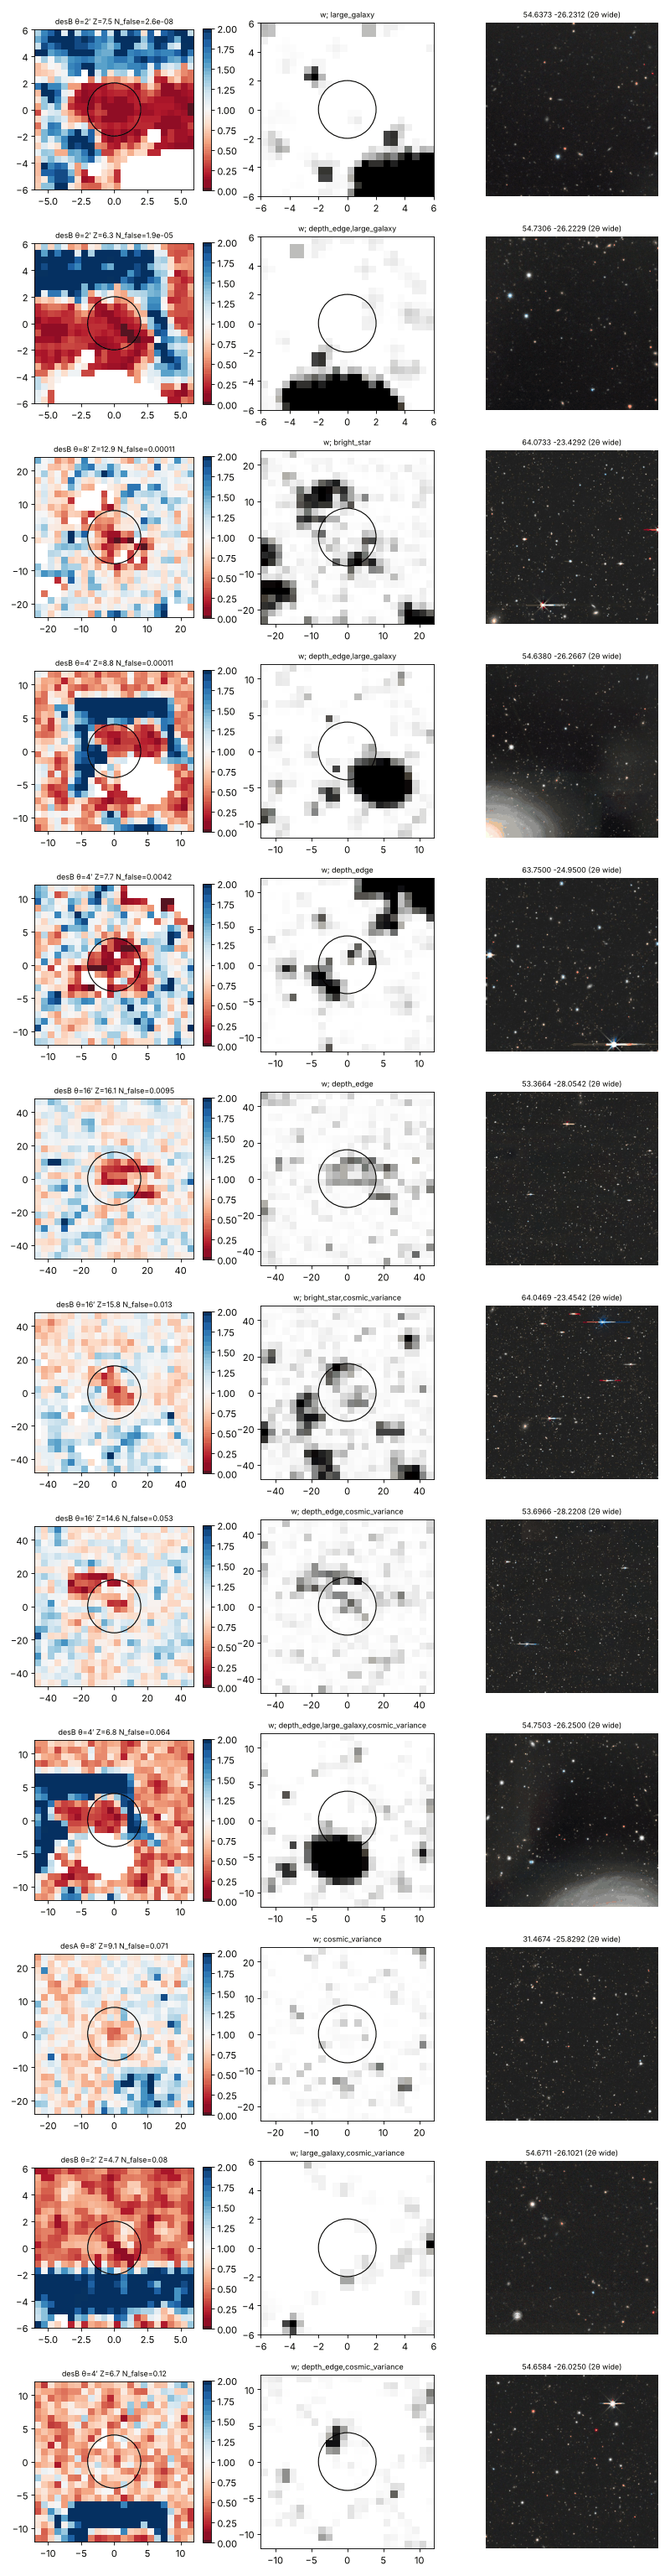
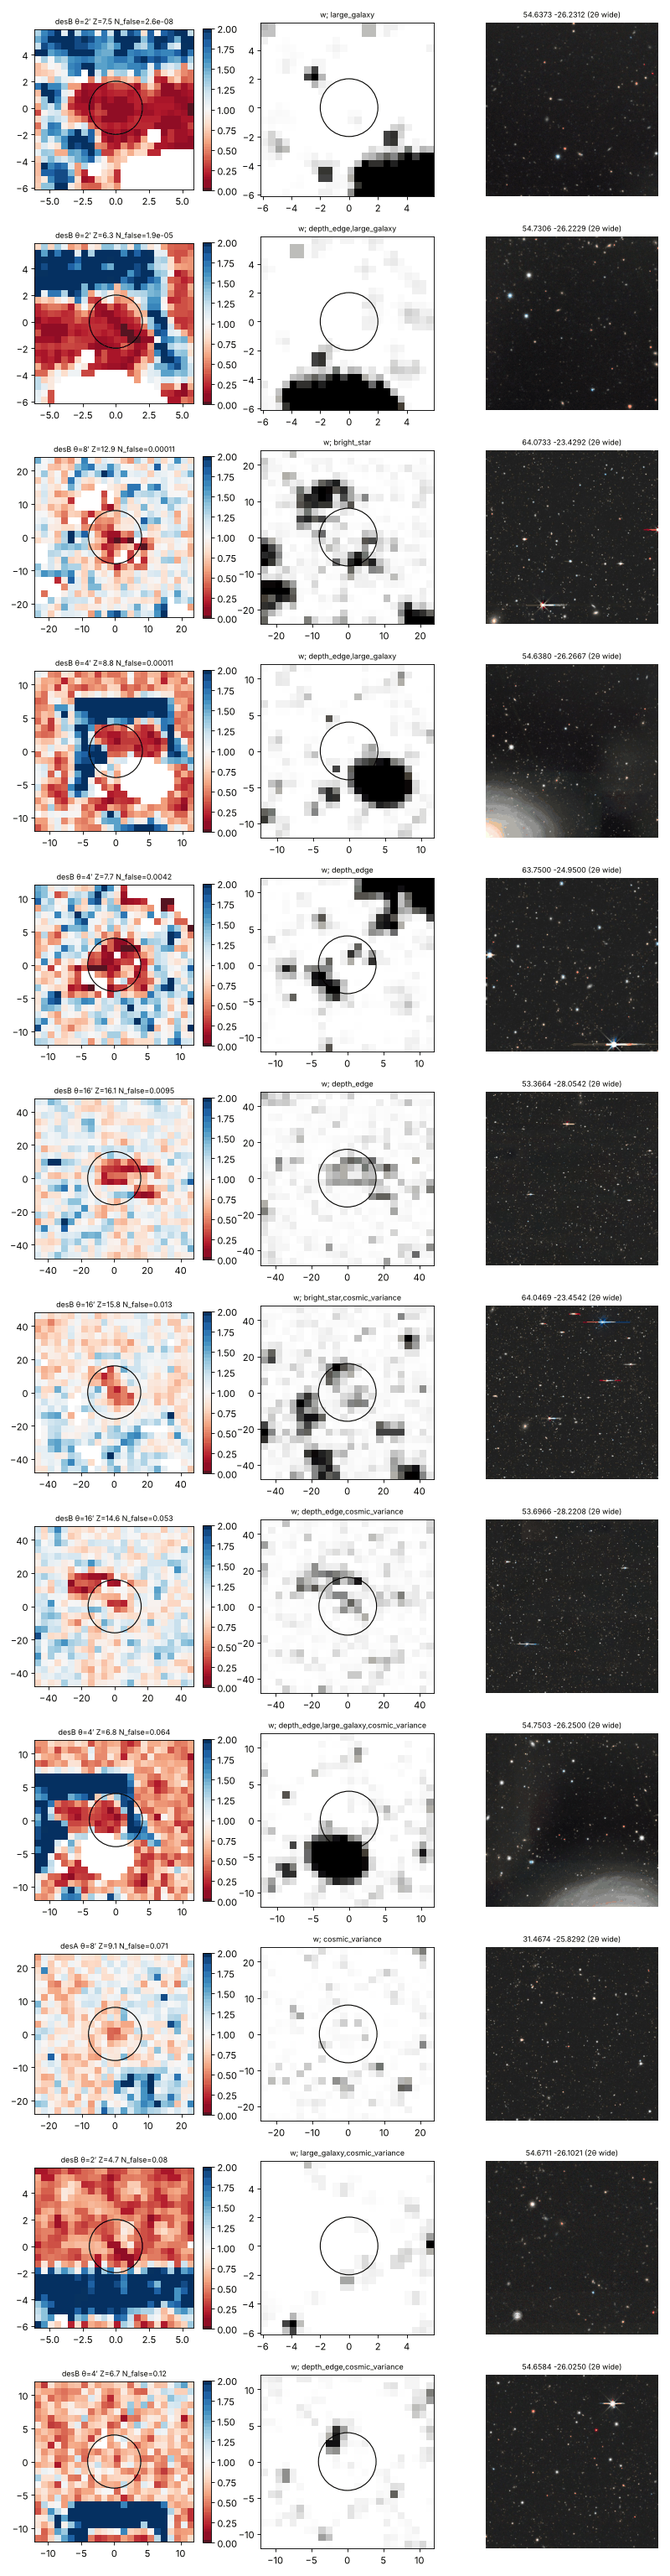
W5 second review: manifest records each chunk's stored query, retrieval time and release; cache checks all three queries and the manifest sha256; count_map data kind for W5; contact-sheet cells on true edges; round-trip test
Claude-Session: https://claude.ai/code/session_01F4SgDLLX7dpbxi9Kj6gEmC

diff --git a/src/jwst_anomaly/countmap.py b/src/jwst_anomaly/countmap.py
@@ -186,11 +186,22 @@ class LegacySurveysCountMap:
         q = chunk_queries(box, self.mag_lim)
         t = merge_chunk(run(q["gal"]), run(q["all"]), run(q["bad"]))
         t.meta["query_gal"] = q["gal"]
+        t.meta["query_all"] = q["all"]
+        t.meta["query_bad"] = q["bad"]
         path.parent.mkdir(parents=True, exist_ok=True)
         tmp = path.with_suffix(f".{os.getpid()}.{threading.get_ident()}.tmp.fits")
         t.write(tmp, overwrite=True)
         tmp.replace(path)
         return path
+
+    def pinned_sha256(self) -> dict[str, str]:
+        """sha256 per chunk file name from data/manifests/w5_dr10_counts.ecsv (empty if absent)."""
+        path = paths.repo_root() / "data" / "manifests" / "w5_dr10_counts.ecsv"
+        if not path.exists():
+            return {}
+        t = Table.read(path, format="ascii.ecsv")
+        name = self.region.name
+        return {str(r["file"]): str(r["sha256"]) for r in t if str(r["region"]) == name}
 
     def missing_chunks(self) -> list:
         return [b for b in self.region.chunks() if not self.chunk_path(b).exists()]
@@ -200,13 +211,23 @@ class LegacySurveysCountMap:
         missing = self.missing_chunks()
         if missing:
             raise FileNotFoundError(f"{len(missing)} chunks not fetched (run fetch first)")
+        pinned = self.pinned_sha256() if self.mag_lim == 23.5 else {}
         parts = []
         for b in self.region.chunks():
+            path = self.chunk_path(b)
+            if path.name in pinned and sha256_file(path) != pinned[path.name]:
+                raise ValueError(f"{path} does not match its manifest sha256; refetch it")
             p = Table.read(self.chunk_path(b))
             # the cache key is coarse (region, mag_lim to 0.1, lower-left corner): refuse a chunk
-            # fetched with another selection or geometry instead of silently reusing it
-            if p.meta.get("query_gal") != chunk_queries(b, self.mag_lim)["gal"]:
-                raise ValueError(f"{self.chunk_path(b)} was fetched with another query; refetch it")
+            # fetched with another selection or geometry instead of silently reusing it. Chunks
+            # fetched before 2026-10-08 23:30 UTC carry only the galaxy query.
+            want = chunk_queries(b, self.mag_lim)
+            for key in ("gal", "all", "bad"):
+                got = p.meta.get(f"query_{key}")
+                if got != want[key] and (key == "gal" or got is not None):
+                    raise ValueError(
+                        f"{self.chunk_path(b)} was fetched with another query; refetch"
+                    )
             p.meta.clear()
             parts.append(p)
         t = combine_duplicates(vstack(parts))
@@ -214,6 +235,12 @@ class LegacySurveysCountMap:
 
     def area_deg2(self) -> float:
         return float(np.sum(self.count_map()["w"]) * PIX_AREA_DEG2)
+
+
+def sha256_file(path: Path) -> str:
+    import hashlib
+
+    return hashlib.sha256(Path(path).read_bytes()).hexdigest()
 
 
 def combine_duplicates(t: Table) -> Table:

diff --git a/scripts/w5_counts.py b/scripts/w5_counts.py
@@ -789,8 +789,8 @@ def cmd_sheet(args) -> None:
         x, y = ms.raster.xy(row["ra"], row["dec"])
         half = 3 * th
         f = max(1, int(th / 4 / CELL))
-        ix0 = int((x - half - ms.raster.x0) / CELL)
-        iy0 = int((y - half - ms.raster.y0) / CELL)
+        ix0 = math.floor((x - half - ms.raster.x0) / CELL)
+        iy0 = math.floor((y - half - ms.raster.y0) / CELL)
         n = int(2 * half / CELL)
         sl = (slice(max(iy0, 0), iy0 + n), slice(max(ix0, 0), ix0 + n))
         dens = cm.block_sum(ms.density()[sl], f)
@@ -798,8 +798,8 @@ def cmd_sheet(args) -> None:
         with np.errstate(divide="ignore", invalid="ignore"):
             rel = dens / wt / np.nanmean(dens[wt > 0.5] / wt[wt > 0.5])
         # a cutout clipped at the raster edge keeps its true offsets, so (0, 0) stays the flag
-        x_lo = (max(ix0, 0) - ix0) * CELL - half
-        y_lo = (max(iy0, 0) - iy0) * CELL - half
+        x_lo = ms.raster.x0 + max(ix0, 0) * CELL - x  # true cell edges relative to the flag
+        y_lo = ms.raster.y0 + max(iy0, 0) * CELL - y
         ext = [x_lo, x_lo + dens.shape[1] * f * CELL, y_lo, y_lo + dens.shape[0] * f * CELL]
         im = ax[0].imshow(
             np.where(wt > 0.3, rel, np.nan), origin="lower", extent=ext, cmap="RdBu", vmin=0, vmax=2
@@ -880,14 +880,23 @@ def cmd_manifest(args) -> None:
     rows = []
     for name in args.regions:
         survey = cm.LegacySurveysCountMap(REGIONS[name], MAG_LIM)
+        if survey.missing_chunks():
+            raise SystemExit(
+                f"{name}: {len(survey.missing_chunks())} chunks not fetched; run fetch"
+            )
         for box in survey.region.chunks():
             path = survey.chunk_path(box)
             data = path.read_bytes()
+            meta = Table.read(path).meta  # what the file was fetched with, not today's query
             rows.append(
                 {
                     "region": name,
                     "file": path.name,
-                    "query_gal": cm.chunk_queries(box, MAG_LIM)["gal"],
+                    "release": "Legacy Surveys DR10 (ls_dr10.tractor, Data Lab)",
+                    "query_gal": str(meta.get("query_gal", "")),
+                    "retrieved_utc": time.strftime(
+                        "%Y-%m-%dT%H:%M:%SZ", time.gmtime(path.stat().st_mtime)
+                    ),
                     "bytes": len(data),
                     "sha256": hashlib.sha256(data).hexdigest(),
                 }

diff --git a/tests/test_countmap.py b/tests/test_countmap.py
@@ -192,3 +192,38 @@ def test_inject_deficit_thins_core_and_conserves_far():
     assert out[r < 2].mean() < 0.35 * 50  # x < 0.25: ratio ≲ 0.3 for these counts
     assert np.all(out[r > 25] == 50)
     assert out.dtype == np.int64 and np.all(out >= 0)
+
+
+def _fake_tap(query: str) -> Table:
+    pix = np.array([10, 11, 12])
+    if "n_gal" in query:
+        return Table({"nest4096": pix, "n_gal": [5, 6, 7]})
+    if "n_bad" in query:
+        return Table({"nest4096": pix[:1], "n_bad": [1]})
+    return Table(
+        {
+            "nest4096": pix,
+            "n_all": [10, 12, 14],
+            "galdepth_r": [400.0, 400.0, 400.0],
+            "nobs_g": [3, 3, 3],
+            "nobs_r": [3, 3, 3],
+            "nobs_z": [3, 3, 3],
+            "ebv": [0.02, 0.02, 0.02],
+        }
+    )
+
+
+def test_cached_chunk_round_trip_and_query_guard(tmp_path):
+    s = cm.LegacySurveysCountMap(cm.Region("t", 0, 1, 0, 1), cache=tmp_path)
+    (box,) = s.region.chunks()
+    path = s.fetch_chunk(box, run=_fake_tap)
+    m = s.count_map()  # the stored queries survive the FITS round trip
+    assert list(m["n_gal"]) == [5, 6, 7] and m.meta["provenance"] == "observed"
+    other = cm.LegacySurveysCountMap(cm.Region("t", 0, 1, 0, 1), mag_lim=23.45, cache=tmp_path)
+    with pytest.raises(ValueError, match="another query"):
+        other.count_map()  # same cache file, other selection: refused, not reused
+    t = Table.read(path)
+    t.meta["query_bad"] = "SELECT something else"
+    t.write(path, overwrite=True)
+    with pytest.raises(ValueError, match="another query"):
+        s.count_map()

diff --git a/src/jwst_anomaly/signatures.py b/src/jwst_anomaly/signatures.py
@@ -24,7 +24,7 @@ from astropy.table import Table
 
 from jwst_anomaly import exotic_sim, schema
 
-DATA_KINDS = ("catalogue", "light_curve", "image")
+DATA_KINDS = ("catalogue", "count_map", "light_curve", "image")
 
 
 @dataclass(frozen=True)
@@ -161,7 +161,7 @@ register(
     Signature(
         code="W5",
         name="background-count deficit inside about theta_E",
-        data_kinds=("catalogue",),
+        data_kinds=("count_map",),
         predict=_bound(exotic_sim.count_ratio, _NEG),
         # count-map injection is map-level (countmap.inject_deficit thins pixel counts with the
         # exotic_sim profile from countmap.deficit_profile); it is not an exotic_sim image injector

diff --git a/tests/test_signatures.py b/tests/test_signatures.py
@@ -10,7 +10,8 @@ from jwst_anomaly import signatures as sg
 def test_registry_holds_the_searchable_d047_signatures():
     assert sorted(sg.REGISTRY) == ["W1", "W2", "W3", "W5"]
     assert [s.code for s in sg.for_kind("light_curve")] == ["W3"]
-    assert {s.code for s in sg.for_kind("catalogue")} == {"W1", "W2", "W5"}
+    assert {s.code for s in sg.for_kind("catalogue")} == {"W1", "W2"}
+    assert [s.code for s in sg.for_kind("count_map")] == ["W5"]
     w3 = sg.get("W3")
     lc = w3.predict(np.array([0.0, 1.0]), 0.0, 10.0, 0.5)
     assert lc[0] == 0.0  # negative mass bound: u0 = 0.5 is inside the umbra (u < 2)
